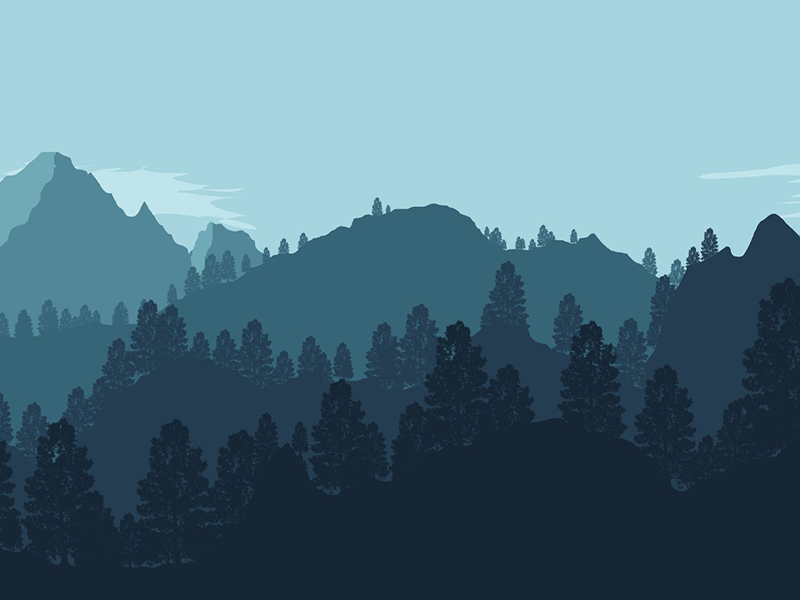
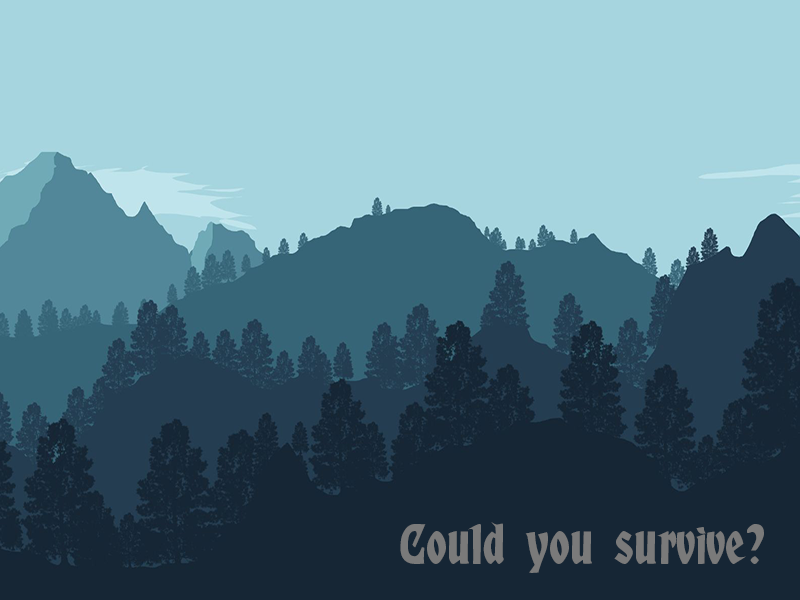
Added an intro background

Changed region(s): [[0.5, 0.87, 0.9688, 0.96]]

diff --git a/scriptCanvas.js b/scriptCanvas.js
@@ -474,19 +474,10 @@ const initialSetting = ()=>{
     mouth = new Mouth(mouthSpriteSheet, 'closed')
     fire = new Fire(itemsFloorCollection.bonfire)
     
-    // game.putItemInBag(itemsGeneration.genItems(5))
+    game.putItemInBag(itemsGeneration.genItems(3))
 
     game.checkSound()
     eventHandler()
-    ///////////////////////////////////////////////////////////////////////// test
-    // game.sound = false
-    game.checkSound()
-    game.gameOn = true
-    game.setGameTime()
-    game.intro = false
-    game.update()
-    game.putItemInBag(itemsGeneration.genSingleItem('frog'))
-    /////////////////////////////////////////////////////////////////////////
 }
 
 // Update mouse position

diff --git a/styles.css b/styles.css
@@ -52,7 +52,7 @@ h1 a:hover {
 
 #canvas {
     border: 2px double rgba(0,100,0,0.75);
-    /* background-image: url("images/forest-bg.jpg"); */
+    background-image: url("images/intro-bg.png");
     background-color:rgb(255, 255, 255, .2)
 }
 
